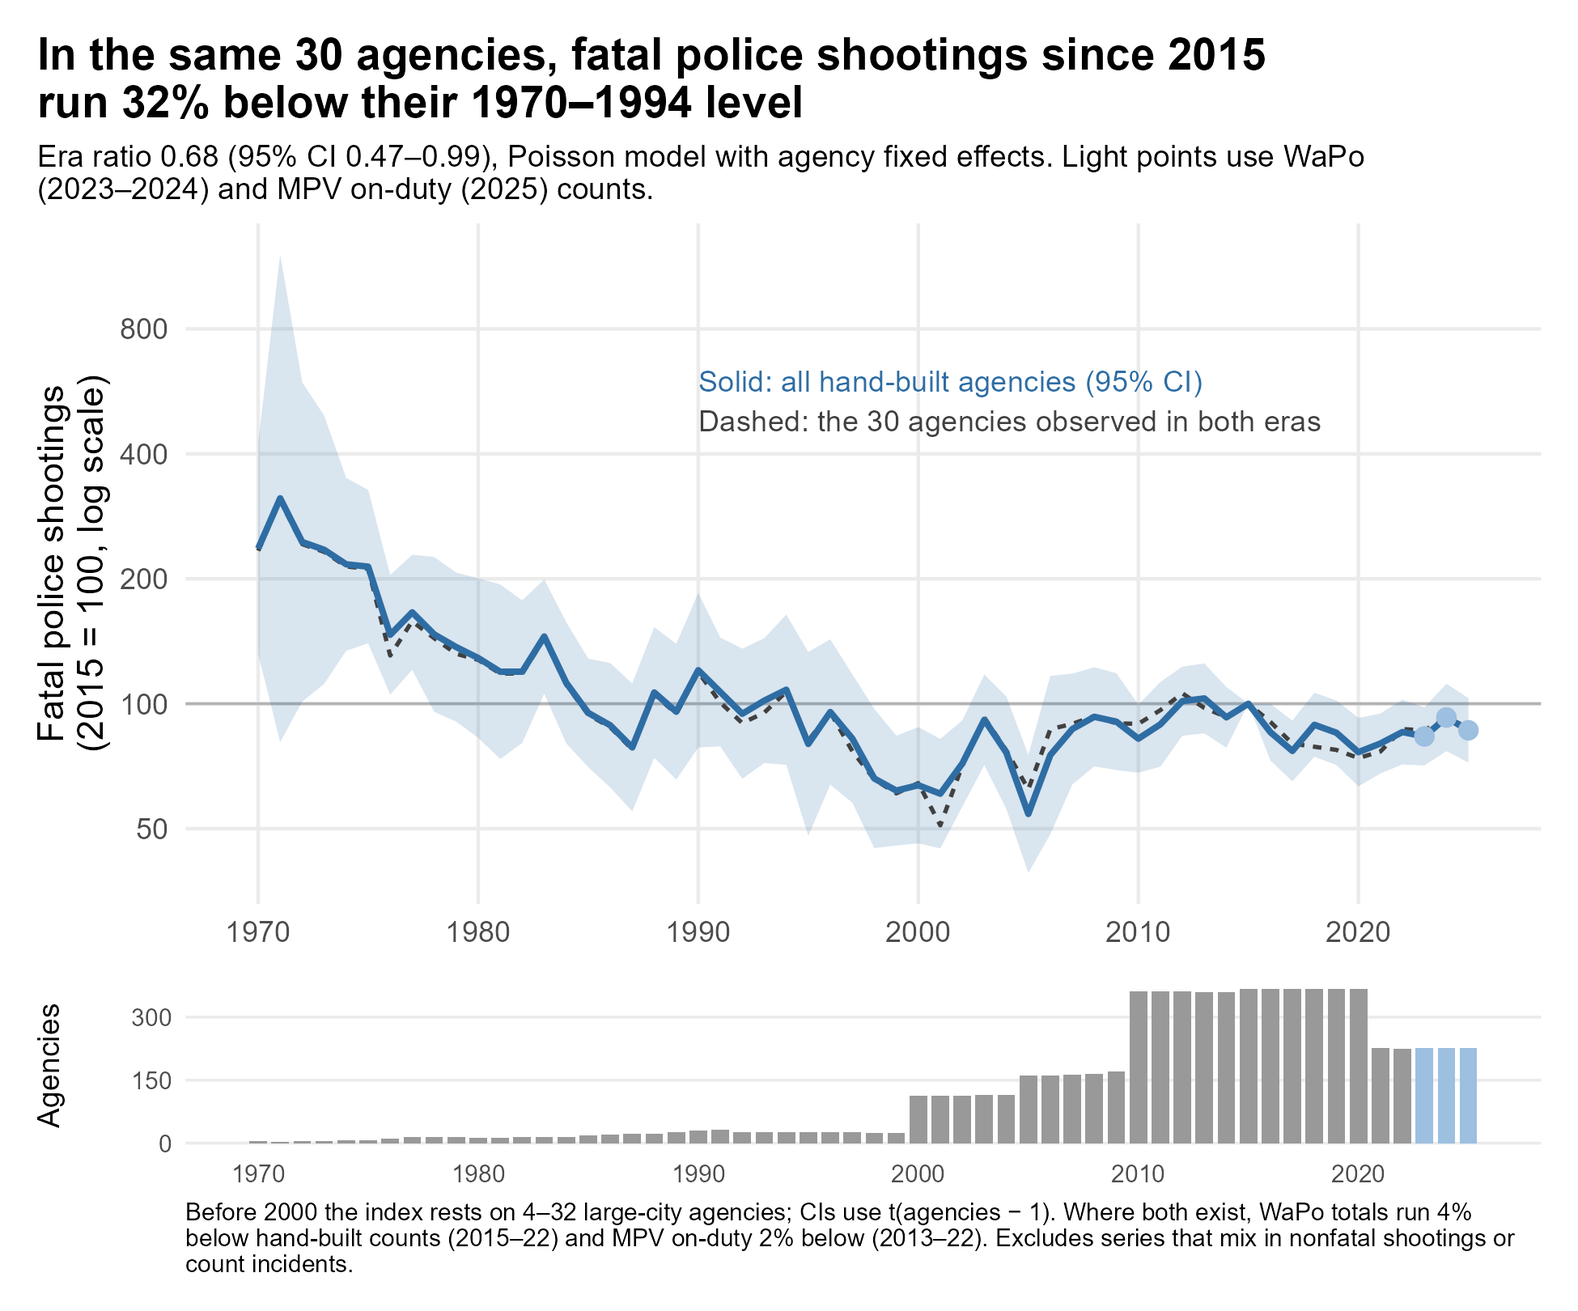
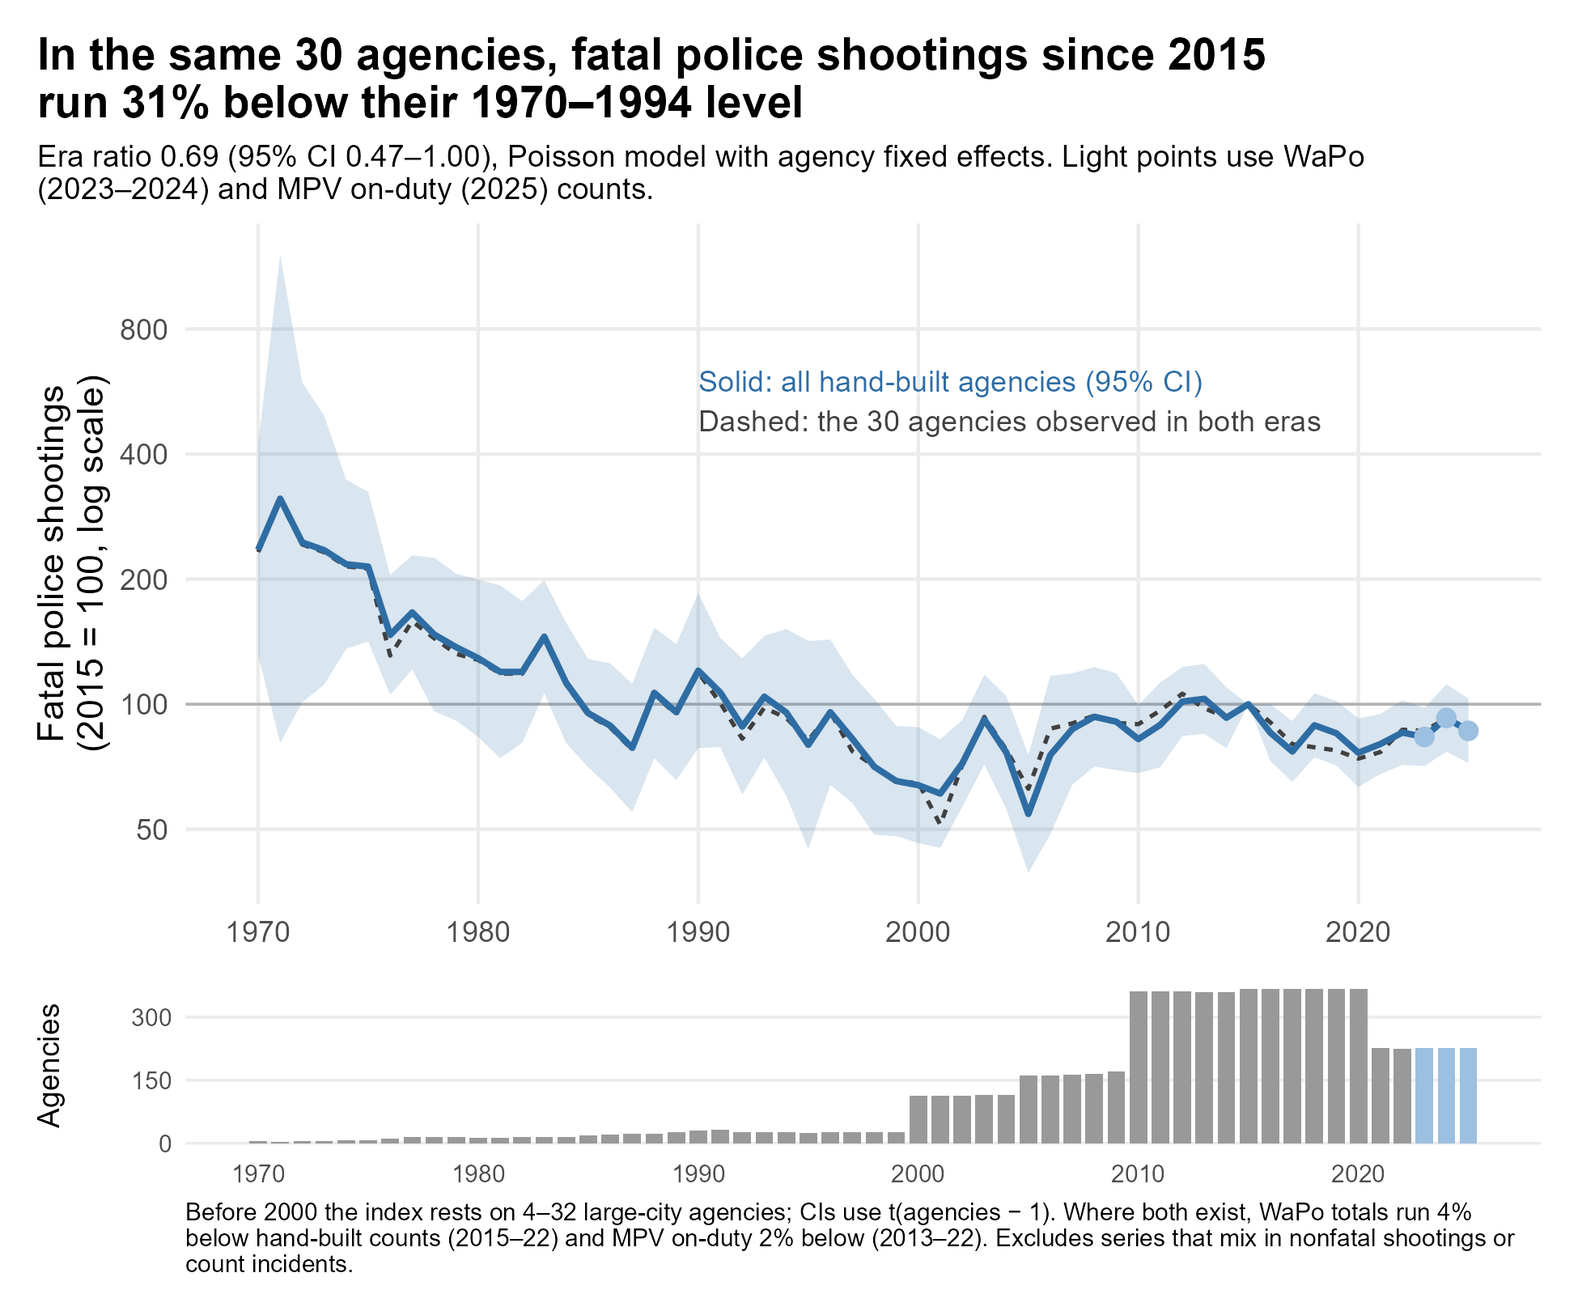
Post 39: update to current numbers (Chicago, LAPD fix), trim
Nineteen papers / 20 agencies / 471 deaths; SHR check 456 vs 498 (133
of 239); headline 31% below (0.69, 0.47-0.997); rebuilt cities 1.34,
SHR bound 1.23. Adds a short Chicago/LAPD paragraph and footnote,
trims the SHR-holes paragraph and "Using the data", refreshes figures.

diff --git a/content/post/post39-newspaper-archives/index.md b/content/post/post39-newspaper-archives/index.md
@@ -22,84 +22,85 @@ links:
   url: "https://github.com/jnixy/agency-level-fatal-OIS"
   icon_pack: fab
   icon: github
-summary: "Agency reports ran dry, so I turned to digitized local newspapers. Seventeen papers later, the long-run panel has nearly doubled, and the headline looks different."
+summary: "Agency reports ran dry, so I turned to digitized local newspapers. Nineteen papers later, the long-run panel has nearly doubled, and the headline looks different."
 ---
 
-[Last week's post](/post/post38-police-killings-long-run/) ended with a plea: if you know where historical counts of fatal police shootings live, tell me. A week later, and I'm scouring old newspaper articles, and in my opinion it's been very productive.
+[Last week's post](/post/post38-police-killings-long-run/) ended with a plea: if you know where historical counts of fatal police shootings live, tell me. A week later, I'm scouring old newspaper articles, and it's been very productive.
 
 ## Why newspapers
 
-The original plan was to find the records police departments kept themselves (e.g., annual reports, internal affairs summaries, use-of-force reviews). In practice, that well ran dry fast. The [Wayback Machine](https://web.archive.org/) only began saving web pages in 1996, and the reports departments posted online mostly covered the 2000s, a decade [Fatal Encounters](https://fatalencounters.org/) already covers. Where older annual reports did turn up, they usually counted shooting *incidents*, not people killed. A six-agency pilot produced exactly two new years of usable counts (Jacksonville, 2007 and 2008).
+The original plan was to find the records police departments kept themselves (e.g., annual reports, internal affairs summaries, use-of-force reviews). That well ran dry fast. The [Wayback Machine](https://web.archive.org/) only began saving web pages in 1996, and the reports departments posted online mostly covered the 2000s, a decade [Fatal Encounters](https://fatalencounters.org/) already covers. Where older reports did turn up, they usually counted shooting *incidents*, not people killed. A six-agency pilot produced exactly two new years of usable counts (Jacksonville, 2007 and 2008).
 
-Local papers, on the other hand, covered nearly every police killing in their city, and many of them are now digitized and searchable through [NewsBank](https://www.newsbank.com/)'s Access World News. Some papers made it easy. The *Omaha World-Herald* ran a running sidebar after each police killing listing every one in the past decade. Most papers didn't, so for most cities I rebuilt each year case by case.[^ai]
+Local papers, on the other hand, covered most police killings in their city, and many of them are now digitized and searchable through [NewsBank](https://www.newsbank.com/)'s Access World News. Some papers made it easy: the *Omaha World-Herald* ran a sidebar after each police killing listing every one in the past decade. Most didn't, so for most cities I rebuilt each year case by case.[^ai]
 
 ## How it works
 
-For my purposes, a death counts when the paper reports that an on-duty officer of that agency shot and killed someone. Off-duty officers, other agencies at the same scene, and suicides during standoffs are left out.[^rules]
+A death counts when the paper reports that an on-duty officer of that agency shot and killed someone. Off-duty officers, other agencies at the same scene, and suicides during standoffs are left out.[^rules]
 
-For each agency-year, I searched the paper several ways: full-text searches pairing kill phrases ("shot and killed," "fatally wounded") with the agency's name, headline searches, and stories about prosecutors' reviews of each shooting, which in some places, like Texas, means a grand jury. Each search window ran to January 15 of the following year. Every case (and every exclusion) is logged with the article and its database ID in an [evidence file](https://github.com/jnixy/agency-level-fatal-OIS/blob/main/data/historical/historical_ois_evidence.csv), so anyone with access can check my work. Where a paper printed its own count (e.g. "the city's fifth fatal police shooting this year"), I checked the reconstruction against it.
+For each agency-year, I searched the paper several ways: full-text searches pairing kill phrases ("shot and killed," "fatally wounded") with the agency's name, headline searches, and stories about prosecutors' reviews of each shooting. Every case (and every exclusion) is logged with the article and its database ID in an [evidence file](https://github.com/jnixy/agency-level-fatal-OIS/blob/main/data/historical/historical_ois_evidence.csv), so anyone with access can check my work. Where a paper printed its own count (e.g., "the city's fifth fatal police shooting this year"), I checked the reconstruction against it.
 
-Obviously this method's weakness is that it can miss deaths. If a story never ran, or ran under wording none of my searches anticipated, that death is missing. So the reconstructed counts are best read as floors. It also only reaches back as far as each paper's archive (mostly the mid-1980s), and some cities are simply out of reach. Detroit's papers aren't in the database before 1995, and the *Los Angeles Times* isn't in NewsBank at all.
+The method's weakness is that it can miss deaths. If a story never ran, or ran under wording none of my searches anticipated, that death is missing, so the reconstructed counts are best read as floors. It also only reaches back as far as each paper's archive (mostly the mid-1980s), and some cities are out of reach: Detroit's papers aren't in the database before 1995, and the *Los Angeles Times* isn't in NewsBank at all.
 
 ## What it added
 
-Seventeen newspapers have now filled in years for 18 agencies, from Omaha and Oklahoma City to San Jose, Dallas, San Diego, and Kansas City: 251 agency-years and 396 people fatally shot. The orange tiles below are the newspaper years that just got added.
+Nineteen newspapers have now filled in years for 20 agencies, from Omaha and Oklahoma City to San Jose, Dallas, San Diego, and Kansas City: 256 agency-years and 471 people fatally shot. The orange tiles below are those newspaper years.
 
 ![Agencies with data before 2000, newspaper years in orange](coverage_tiles.png)
 
-Last week, 25 agencies had any data before 2000. Now 38 do. More to the point for the long-run question, the number of agencies with at least five years of data both before 1995 and since 2015 has grown from 16 to 30.
+Last week, 25 agencies had any data before 2000. Now 38 do. More to the point, the number of agencies with at least five years of data both before 1995 and since 2015 has grown from 16 to 30.
+
+Two big cities were partial wins. The *Chicago Sun-Times* didn't run a story on most killings by Chicago police, so I could only use years where the paper printed the department's own count (1992, 1998, and 1999). And a 1995 *Daily News of Los Angeles* story gave LAPD's own counts for 1993 and 1994. They showed that two years already in my file were wrong, one of them by 16 deaths, so I replaced those two and dropped two more that rested on the same unrecorded source.
 
 ## Checking the papers against the FBI
 
-How do I know the newspaper counts are any good? One rough check is the FBI's [Supplementary Homicide Reports](https://cde.ucr.cjis.gov/) (SHR), in which agencies are supposed to report every homicide, including people killed by police. I merged them into the panel using [Jacob Kaplan's](https://jacobdkaplan.com/) cleaned files. SHR is a crude yardstick. It's [long been known](https://doi.org/10.2105/AJPH.93.7.1117) to miss a large share of police killings nationally. Some agencies skip years or never report their own officers' killings. And there's no field indicating whether the officer was on- or off- duty.
+How do I know the newspaper counts are any good? One rough check is the FBI's [Supplementary Homicide Reports](https://cde.ucr.cjis.gov/) (SHR), in which agencies are supposed to report every homicide, including people killed by police. I merged them into the panel using [Jacob Kaplan's](https://jacobdkaplan.com/) cleaned files. SHR is a crude yardstick: it's [long been known](https://doi.org/10.2105/AJPH.93.7.1117) to miss a large share of police killings, and it doesn't record whether the officer was on duty.
 
-Even so, the comparison is reassuring. In the agency-years both sources cover, the newspaper reconstructions count 381 deaths and SHR counts 409, and the two match exactly in 132 of 234 agency-years. SHR running a little high is about what you'd expect, since it includes off-duty killings and my newspaper searches can miss cases.
+Even so, the comparison is reassuring. In the agency-years both sources cover, the newspaper counts total 456 deaths and SHR 498, and the two match exactly in 133 of 239 agency-years. SHR running a little high is about what you'd expect, since it includes off-duty killings and my searches can miss cases.
 
-Why not just use SHR, then? It goes back to 1976 and covers thousands of agencies. If it could be trusted, none of this newspaper reading would be necessary. But agency by agency, it has holes you could drive a patrol car through. From 1990 to 1995, Kansas City police killed at least 18 people; SHR records two. In 1993, the *Kansas City Star* reported that city police had killed three people that year, and SHR says none. It's the same story elsewhere. SHR shows no police killings in San Antonio in any year from 1990 to 1999, while the *Express-News* reconstruction finds 20. For Dallas from 1987–91, the department's own figures (published by Geller and Scott) come to 30; SHR has 12. And the gaps aren't just ancient history: SHR records no killings by NYPD officers from 2007 through 2014, years in which they shot and killed 84 people, and none by Chicago police from 2016 through 2022, when they killed 38.[^shrdata]
+Why not just use SHR, then? Because agency by agency, it has holes you could drive a patrol car through. In 1993, the *Kansas City Star* reported that city police had killed three people that year; SHR says none. And the gaps aren't ancient history: SHR records no killings by NYPD officers from 2007 through 2014, years in which they shot and killed 84 people, and none by Chicago police from 2016 through 2022, when they killed 38.[^shrdata]
 
 ## The headline moved
 
-That brings me to an update. Last week I reported that in the 16 long-running agencies, fatal police shootings since 2015 ran about half their pre-1995 level. With 30 agencies, that gap narrows: shootings since 2015 run 32% below the 1970–1994 level, with an uncertainty range of 1% to 53% lower.
+Last week I reported that in the 16 long-running agencies, fatal police shootings since 2015 ran about half their pre-1995 level. With 30 agencies, the gap narrows: shootings since 2015 run 31% below the 1970–1994 level, with an uncertainty range from 53% lower to just short of no change.
 
 ![Within-agency trend in fatal police shootings](trend_index.png)
 
-Why the change? It comes from *which* cities were added. Drop the newspaper years and the model returns last week's answer exactly; take the 17 newspaper agencies on their own, and the ratio is 1.34. Most of the agencies I've just added *do* appear to be fatally shooting more people now than before 1995.
+The change comes from *which* cities were added. Drop the newspaper years and the model returns last week's answer. Take the 17 cities I rebuilt case by case on their own, and the ratio is 1.34: most of them *do* appear to be fatally shooting more people now than before 1995.[^bigtwo]
 
 ![Then vs. now in 30 long-running agencies](then_vs_now.png)
 
-Many of those cities are fast-growing Sun Belt departments — San Antonio, Austin, Harris County — and these are raw counts, not rates. San Antonio's population has grown by more than half since 1990.[^pop] Could the newspapers' misses explain the rest? To check, I raised every newspaper year to SHR's count wherever SHR was higher, which overcorrects, since SHR also counts off-duty killings. The newspaper cities drop to 1.23 (still, on balance, above their pre-1995 level), and the headline barely moves (0.67).[^bound] Of the 30 agencies, 8 kill clearly fewer people a year now than before 1995, 10 kill clearly more, and 12 haven't changed by more than chance would explain.[^test]
+Many of those cities are fast-growing Sun Belt departments (San Antonio, Austin, Harris County), and these are raw counts, not rates. San Antonio's population has grown by more than half since 1990.[^pop] Could the newspapers' misses explain the rest? To check, I raised every newspaper year to SHR's count wherever SHR was higher, which overcorrects, since SHR also counts off-duty killings. The rebuilt cities drop to 1.23, still above their pre-1995 level on balance, and the headline barely moves (0.67).[^bound] Of the 30 agencies, 8 kill clearly fewer people a year now than before 1995, 10 kill clearly more, and 12 haven't changed by more than chance would explain.[^test]
 
-So the picture is more mixed than last week's post suggested. The country's biggest departments (New York, Chicago, Los Angeles) are well below where they were. A lot of mid-sized and growing departments aren't.
+So the picture is more mixed than last week's post suggested. The biggest departments (New York, Chicago, Los Angeles) are well below where they were. A lot of mid-sized and growing departments aren't.
 
-Still, recall what the Lancet estimate implies: with population growth, roughly twice as many deaths a year in the 2010s as in the 1980s. Taken together, these 30 agencies show nothing like that. The pooled estimate is a 32% decline, and even the top of its uncertainty range is no increase at all. That's not true of every agency. But what I've seen so far is not at all what a doubling would look like.
+Still, recall what the Lancet estimate implies: with population growth, roughly twice as many deaths a year in the 2010s as in the 1980s. These 30 agencies show nothing like that. The pooled estimate is a 31% decline, and even the top of its uncertainty range is no increase. That's not true of every agency, but it's not what a doubling would look like.
 
 ## Using the data
 
-Every agency in the panel carries its FBI ORI code, the identifier most federal crime and policing data use. That makes these counts easy to merge with other data. A few possibilities:
+Every agency in the panel carries its FBI ORI code, which makes these counts easy to merge with other data, such as:
 
-- **The [Law Enforcement Management and Administrative Statistics](https://bjs.ojp.gov/data-collection/law-enforcement-management-and-administrative-statistics-lemas) survey and the [Census of State and Local Law Enforcement Agencies](https://bjs.ojp.gov/data-collection/census-state-and-local-law-enforcement-agencies-csllea)** for agency size, policies, and training;
-- **The FBI's Uniform Crime Reports**: crime counts, officer staffing, and assaults on officers, which Kaplan has [cleaned and documented](https://ucrbook.com/), to ask whether shootings track violent crime or attacks on officers;
-- **Census and American Community Survey data**, through the [Law Enforcement Agency Identifiers Crosswalk](https://www.icpsr.umich.edu/web/NACJD/studies/35158), which links ORIs to Census place and county codes, to turn counts into rates;
-- **The FBI's [National Incident-Based Reporting System](https://www.fbi.gov/how-we-can-help-you/more-fbi-services-and-information/ucr/nibrs)** (NIBRS) for more recent, incident-level crime data.
+- **The [LEMAS](https://bjs.ojp.gov/data-collection/law-enforcement-management-and-administrative-statistics-lemas) survey and the [Census of State and Local Law Enforcement Agencies](https://bjs.ojp.gov/data-collection/census-state-and-local-law-enforcement-agencies-csllea)** for agency size, policies, and training;
+- **The FBI's Uniform Crime Reports**, which Kaplan has [cleaned and documented](https://ucrbook.com/), to ask whether shootings track violent crime or attacks on officers;
+- **Census data**, through the [Law Enforcement Agency Identifiers Crosswalk](https://www.icpsr.umich.edu/web/NACJD/studies/35158), to turn counts into rates.
 
-Population-adjusted rates are the obvious next step for the then-vs-now comparison. I'll get there, eventually, or would be happy to collaborate.
+Population-adjusted rates are the obvious next step for the then-vs-now comparison. I'll get there eventually, or would be happy to collaborate.
 
 ## What's next
 
-Next up is Chicago, whose record stops in 1991 and doesn't pick up again until 2010. Those were not quiet years. Indianapolis, which has the same gap, turns out to be out of reach: its papers aren't in NewsBank.
+Indianapolis is out of reach (its papers aren't in NewsBank), and so are most of Chicago's missing years. If you can reach a paper I can't, I'd love to hear from you. In particular, anyone with access to the *Chicago Tribune* for 1993–97, the *Los Angeles Times* (for the LA County Sheriff in 1989–90), the *Detroit Free Press* and *Detroit News* before 1995, or the *Indianapolis Star* in the 1990s could fill real gaps. Email me, or [open an issue](https://github.com/jnixy/agency-level-fatal-OIS/issues) on GitHub.
 
-If you can reach a paper I can't, I'd still love to hear from you. In particular, anyone with access to the *Los Angeles Times* archive (for the LA County Sheriff in 1989–90), the *Detroit Free Press* and *Detroit News* before 1995, or the *Indianapolis Star* in the 1990s could fill real gaps. Email me, or [open an issue](https://github.com/jnixy/agency-level-fatal-OIS/issues) on GitHub.
-
-Seventeen newspapers in, the long-run record is broader than it was a week ago, and a bit less tidy. That's usually what more data does.
+Nineteen newspapers in, the long-run record is broader than it was a week ago, and a bit less tidy. That's usually what more data does.
 
 [^ai]: As with the rebuild I described last week, I had help from [Claude](https://www.anthropic.com/claude), which drafted a case log for each year. I made the calls on the edge cases. Every case it logged links back to the article, so the work is checkable either way.
 
 [^rules]: The off-duty rule costs some deaths. In Harris County, for example, most of the gap between my count and SHR's is deputies working uniformed extra jobs. I kept the rule anyway, because the modern sources I compare against are built around on-duty killings and I wanted the old and new eras measured the same way. A few edge cases (a joint raid with federal agents, a suspect who followed an undercover officer home) are flagged in the evidence file.
 
+[^shrdata]: Every count in this paragraph is in the panel ([`agency_year_panel.csv`](https://github.com/jnixy/agency-level-fatal-OIS/blob/main/output/agency_year_panel.csv)), where `n_nix` sits beside `n_shr` for each agency and year. Each of these zeros comes from a year in which the agency did file SHR reports for its other homicides. It just didn't report any killings by its own officers.
+
+[^bigtwo]: Chicago and Los Angeles are set aside here because their newspaper years are the departments' own counts rather than case-by-case rebuilds, and at their size they would swamp the comparison. With them, all 19 newspaper agencies together come to 0.87.
+
 [^pop]: From about 936,000 in 1990 to about 1.5 million today, per the Census Bureau. Austin roughly doubled over the same period.
 
-[^shrdata]: Every count in this paragraph is in the panel ([`agency_year_panel.csv`](https://github.com/jnixy/agency-level-fatal-OIS/blob/main/output/agency_year_panel.csv)), where `n_nix` sits beside `n_shr` for each agency and year. Each of these zeros comes from a year in which the agency did file SHR reports, for its other homicides. It just didn't report any killings by its own officers.
+[^bound]: SHR files nothing for some of these agency-years, so the bound only raises years where SHR has a count. Every run is in [`era_ratio_sensitivity.csv`](https://github.com/jnixy/agency-level-fatal-OIS/blob/main/output/tables/era_ratio_sensitivity.csv).
 
-[^bound]: SHR files nothing for some of these agency-years, so the bound only raises years where SHR has a count. Both runs are in [`era_ratio_sensitivity.csv`](https://github.com/jnixy/agency-level-fatal-OIS/blob/main/output/tables/era_ratio_sensitivity.csv).
-
-[^test]: "Clearly" means an exact Poisson test of each agency's yearly rate in the two eras, at the conventional 5% level. Last week's post counted every agency whose average was lower, however slightly, which is why it said 10 of 16 were lower. The [table](https://github.com/jnixy/agency-level-fatal-OIS/blob/main/output/tables/then_vs_now.csv) lists each agency's years and rates, and the robustness check is in [`era_ratio_sensitivity.csv`](https://github.com/jnixy/agency-level-fatal-OIS/blob/main/output/tables/era_ratio_sensitivity.csv).
+[^test]: "Clearly" means an exact Poisson test of each agency's yearly rate in the two eras, at the conventional 5% level. Last week's post counted every agency whose average was lower, however slightly, which is why it said 10 of 16 were lower. The [table](https://github.com/jnixy/agency-level-fatal-OIS/blob/main/output/tables/then_vs_now.csv) lists each agency's years and rates.
